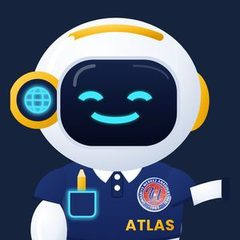
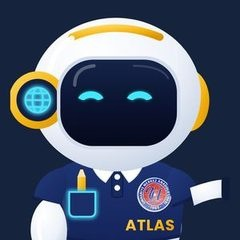
Telsiz: otobüs şeridi derli toplu (tek satır), bütün otobüslerde gelen/toplam, kendi otobüsü neon; mutlu Atlas'ta ağız yok
Claude-Session: https://claude.ai/code/session_01N4KgKYMP3BwnkxJRdcBawd

Changed region(s): [[0.3792, 0.4667, 0.5833, 0.525], [0.5833, 0.9333, 0.6417, 0.9625]]

diff --git a/telsiz.js b/telsiz.js
@@ -30,9 +30,11 @@
     '.tz-gz .tz-gm{min-width:0;flex:1}.tz-gz b{display:block;font-size:14.5px;white-space:nowrap;overflow:hidden;text-overflow:ellipsis}.tz-gz small{display:block;white-space:nowrap;overflow:hidden;text-overflow:ellipsis;color:#ffe14d;font-size:12px;margin-top:2px;text-shadow:0 0 8px rgba(255,225,77,.4)}',
     '.tz-canli{display:inline-flex;align-items:center;gap:6px;background:rgba(255,77,94,.14);border:1px solid rgba(255,77,94,.5);color:#ff8a95;font-size:11px;font-weight:800;letter-spacing:.06em;padding:4px 9px;border-radius:999px;flex:none}',
     '.tz-yokb{height:34px;border-radius:999px;border:1px solid rgba(94,224,138,.55);background:rgba(94,224,138,.12);color:#7ee8a2;display:inline-flex;align-items:center;gap:5px;padding:0 11px 0 9px;font:inherit;font-size:12.5px;font-weight:800;cursor:pointer;flex:none}',
-    '.tz-c.sec{border:1.5px solid #f2c14e!important;background:rgba(242,193,78,.16)!important;box-shadow:0 0 0 1px rgba(242,193,78,.35)}.tz-c.sec b{color:#f2c14e}',
-    '@media (max-width:760px){body.klavye-acik .tz-ekran .tz-gz,body.klavye-acik .tz-ekran .tz-serit,body.klavye-acik .tz-obs1{display:none!important}body.klavye-acik .tz-obbant{margin:0;border-radius:0;border-width:0 0 1px;padding:6px 10px}}.tz-obs1{flex-wrap:nowrap!important}.tz-obs1 b{white-space:nowrap}',
-    '.tz-obbant{margin:6px 0 2px;padding:8px 10px;border-radius:14px;background:rgba(242,193,78,.08);border:1px solid rgba(242,193,78,.45);display:flex;flex-direction:column;gap:6px;flex:none}.tz-obs1,.tz-obs2{display:flex;align-items:center;gap:6px;flex-wrap:wrap}.tz-obs1 b{display:flex;align-items:center;gap:6px;color:#f2c14e;font-size:14px;margin-right:auto}',
+    '.tz-c.ben{border-color:#22e8ff;background:rgba(34,232,255,.12);box-shadow:0 0 10px rgba(34,232,255,.45),inset 0 0 6px rgba(34,232,255,.15)}.tz-c.ben b{color:#7ff6ff}.tz-c.ben span{color:#dffcff;text-shadow:0 0 8px rgba(34,232,255,.6)}.tz-c.tam span{color:#7dffb0}',
+    '.tz-c.sec{border-width:2px!important;background:rgba(242,193,78,.24)!important;box-shadow:0 0 0 2px rgba(242,193,78,.25)}.tz-c.ben.sec{background:rgba(34,232,255,.22)!important;box-shadow:0 0 14px rgba(34,232,255,.6)}',
+    '@media (max-width:760px){body.klavye-acik .tz-ekran .tz-gz,body.klavye-acik .tz-ekran .tz-serit{display:none!important}body.klavye-acik .tz-obbant{margin:0;border-radius:0;border-width:0 0 1px}}.tz-obs1{flex-wrap:nowrap!important}.tz-obs1 b{white-space:nowrap}',
+    '.tz-obbant{margin:6px 0 2px;padding:5px 6px 5px 10px;border-radius:12px;background:rgba(242,193,78,.08);border:1px solid rgba(242,193,78,.45);flex:none}.tz-obs1{display:flex;align-items:center;gap:5px}.tz-obs1 b{display:flex;align-items:center;gap:5px;color:#f2c14e;font-size:13.5px}.tz-obb-bos{flex:1}',
+    '.tz-seg{display:flex;padding:2px;border-radius:9px;background:#0b1424;border:1px solid #2a4468}.tz-obbant .tz-seg button{height:26px;border:0;background:none;padding:0 9px;border-radius:7px;font-size:12px;color:#9db0cf}.tz-obbant .tz-seg button.secili{background:#f2c14e;color:#2a1d00}.tz-obbant button.ik{width:32px;padding:0;display:grid;place-items:center}',
     '.tz-obbant button{height:30px;padding:0 10px;border-radius:9px;border:1px solid #2a4468;background:#0b1424;color:#cfe0ff;font:inherit;font-size:12.5px;font-weight:700;cursor:pointer}.tz-obbant button.x{color:#ffb3b3;border-color:#5a2f3a}.tz-obs2 span{font-size:12px;color:#9db0cf}.tz-obbant button.secili{background:#f2c14e;border-color:#f2c14e;color:#2a1d00}',
     '.tz-c.kilit{opacity:.42;cursor:default;border-style:dashed}.tz-c.yok{border-style:solid;border-color:#2a4468;background:rgba(127,246,255,.04)}.tz-c.yok span{color:#9db0cf}',
     '.tz-psek{display:flex;gap:6px;margin:4px 0 12px}.tz-psek button{flex:1;height:40px;border-radius:12px;border:1px solid #24406a;background:#0b1424;color:#b9c9e2;font:inherit;font-size:14px;font-weight:800;cursor:pointer}.tz-psek button.secili{background:#22e8ff;border-color:#22e8ff;color:#06202a}',
@@ -173,8 +175,10 @@
       var y = alt.querySelector('textarea'); if (y) y.placeholder = phYaz();
       if (!o) { obEl.style.display = 'none'; obEl.innerHTML = ''; return; }
       obEl.style.display = '';
-      obEl.innerHTML = '<div class="tz-obs1"><b>' + SVG(IK.otobus, 15, 2.2) + 'Otobüs ' + o + '</b>' + (cfg.plan ? '<button type="button" data-obp="plan">Oturma planı</button>' : '') + '<button type="button" data-obp="say">Sayım</button><button type="button" class="x" data-obx aria-label="Bütün gezi">✕ Tümü</button></div>' +
-        '<div class="tz-obs2"><span>Yazdıkların</span><button type="button" data-obh="0" class="' + (!S.obHerkes ? 'secili' : '') + '">Yalnız Otobüs ' + o + '</button><button type="button" data-obh="1" class="' + (S.obHerkes ? 'secili' : '') + '">Herkese</button></div>';
+      var IKP = '<path d="M7 4h7a2 2 0 0 1 2 2v7H9a2 2 0 0 1-2-2z"/><path d="M5 11v4a2 2 0 0 0 2 2h11"/><path d="M8 17v3M16 17v3"/>', IKS = '<path d="M9 4h6v3H9z"/><path d="M8 5H6v15h12V5h-2"/><path d="M9 13l2 2 4-4"/>';
+      obEl.innerHTML = '<div class="tz-obs1"><b>' + SVG(IK.otobus, 14, 2.2) + 'Oto ' + o + '</b><span class="tz-seg"><button type="button" data-obh="0" class="' + (!S.obHerkes ? 'secili' : '') + '">Bu otobüse</button><button type="button" data-obh="1" class="' + (S.obHerkes ? 'secili' : '') + '">Herkese</button></span><i class="tz-obb-bos"></i>' +
+        (cfg.plan ? '<button type="button" class="ik" data-obp="plan" title="Oturma planı" aria-label="Oturma planı">' + SVG(IKP, 17, 2) + '</button>' : '') + '<button type="button" class="ik" data-obp="say" title="Sayım" aria-label="Sayım">' + SVG(IKS, 17, 2) + '</button><button type="button" class="ik x" data-obx title="Bütün gezi" aria-label="Bütün gezi">' + SVG('<path d="M6 6l12 12M18 6L6 18"/>', 15, 2.4) + '</button></div>';
+
       obEl.querySelectorAll('[data-obp]').forEach(function (b) { b.onclick = function () { otobusSayfa(o, b.dataset.obp); }; });
       obEl.querySelector('[data-obx]').onclick = function () { obSec(0); };
       obEl.querySelectorAll('[data-obh]').forEach(function (b) { b.onclick = function () { S.obHerkes = b.dataset.obh === '1'; obBantCiz(); }; }); }
@@ -202,16 +206,12 @@
     function toplanmalar() { var b = bugun(); return S.M.filter(function (m) { return m.konum && m.konum.saat && !m.gizli && (!m.konum.tarih || m.konum.tarih === b); }); }
     function seritCiz() {   // personel: altı otobüs tek şeritte — sayım (37/40, tam) ya da toplanma saati; dokununca otobüs sayfası
       var L = (cfg.gezi && cfg.gezi.otobusler && cfg.gezi.otobusler.length ? cfg.gezi.otobusler : [1, 2, 3, 4, 5, 6]), T = toplanmalar(), SY = S.sayimlar || [];
+      var ben = benimOto ? +benimOto() || 0 : 0;
       var izin = function (o) { var y = S.yetki; return R || !y || y.tum || +y.otobus === o; };   // K-845: Kurucu ve gezi sorumlusu bütün otobüsler, diğerleri kendi otobüsü
       var html = L.map(function (o) { if (!izin(o)) { var mk = null; for (var j = T.length - 1; j >= 0; j--) { var Lj = obListe(T[j].konum); if (!Lj || Lj.indexOf(o) >= 0) { mk = T[j]; break; } } return '<span class="tz-c kilit" title="Bu otobüs başka görevlide"><b>OTO ' + o + '</b><span>' + (mk && dkHesap(mk.konum) >= -30 ? esc(mk.konum.saat) : '—') + '</span></span>'; }
-        var m = null; for (var i = T.length - 1; i >= 0; i--) { var Lo = obListe(T[i].konum); if (!Lo || Lo.indexOf(o) >= 0) { m = T[i]; break; } }
-        if (m && dkHesap(m.konum) < -30) m = null;
         var sy = SY.filter(function (x) { return x.otobus === o; })[0], tazeTam = sy && sy.bitti && (Date.now() - new Date(sy.bitti)) < 90 * 60000;
-        if (sy && !sy.bitti) return '<button type="button" class="tz-c say" data-tzob="' + o + '"><b>OTO ' + o + '</b><span>' + sy.gelen + '/' + sy.toplam + '</span></button>';
-        if (tazeTam) return '<button type="button" class="tz-c tam" data-tzob="' + o + '"><b>OTO ' + o + '</b><span>✓ ' + sy.toplam + '</span></button>';
-        if (!m) return '<button type="button" class="tz-c yok" data-tzob="' + o + '"><b>OTO ' + o + '</b><span>—</span></button>';
-        var dk = dkHesap(m.konum);
-        return '<button type="button" class="tz-c' + (dk <= 10 && dk >= -5 ? ' yakin' : dk < -5 ? ' gecti' : '') + '" data-tzob="' + o + '"><b>OTO ' + o + '</b><span>' + esc(m.konum.saat) + '</span></button>'; }).join('');
+        var top = sy && sy.toplam != null ? sy.toplam : (S.obsay && S.obsay[o] != null ? S.obsay[o] : null), gel = sy && !sy.bitti ? sy.gelen : tazeTam ? sy.toplam : 0;   // K-849: hepsi gelen/toplam
+        return '<button type="button" class="tz-c' + (o === ben ? ' ben' : '') + (tazeTam ? ' tam' : '') + '" data-tzob="' + o + '"><b>OTO ' + o + '</b><span>' + (tazeTam ? '✓ ' : '') + gel + '/' + (top == null ? '–' : top) + '</span></button>'; }).join('');
       if (topEl.__h !== html) { topEl.__h = html; topEl.innerHTML = html; if (S.obSec) obBantCiz(); } topEl.style.display = '';
     }
     function otobusSayfa(o, sek0) {   // bir otobüs: toplanma + sayım (eksikler önde: foto, ad, koltuk · Geldi · Neredesin?)
@@ -404,7 +404,7 @@
       var degisti = r.bastan || L.length || S.surum !== r.surum; S.surum = r.surum;
       if (typeof r.acik === 'boolean' && r.acik !== S.acik) { S.acik = r.acik; altCiz(); degisti = true; }
       if (R) { if (r.ozet) cfg.gezi = Object.assign({}, cfg.gezi || {}, r.ozet); }
-      else if (P) { if (r.yetki) { S.yetki = r.yetki; planOnYukle(); } S.susL = r.sessiz || []; if (r.ozet) { cfg.gezi = Object.assign({}, cfg.gezi || {}, r.ozet); } if (r.sayimlar) S.sayimlar = r.sayimlar; }
+      else if (P) { if (r.yetki) { S.yetki = r.yetki; planOnYukle(); } if (r.obsay) S.obsay = r.obsay; S.susL = r.sessiz || []; if (r.ozet) { cfg.gezi = Object.assign({}, cfg.gezi || {}, r.ozet); } if (r.sayimlar) S.sayimlar = r.sayimlar; }
       else { S.sayim = r.sayim || null; sayCiz(); if (!!r.sessiz !== S.sessiz) { S.sessiz = !!r.sessiz; alt.dataset.d = ''; altCiz(); } }
       if (degisti) { gezCiz(); akisCiz(); fotoYukle(); }
       topCiz();

diff --git a/index.html b/index.html
@@ -8,7 +8,7 @@
 <link rel="manifest" href="manifest.webmanifest">
 <link rel="icon" href="simge-192.png">
 <link rel="apple-touch-icon" href="simge-192.png"><meta name="apple-mobile-web-app-capable" content="yes"><meta name="apple-mobile-web-app-title" content="Atlas">
-<link rel="stylesheet" href="stil.css?v=202611211024">
+<link rel="stylesheet" href="stil.css?v=202611211031">
 <script src="supabase.min.js?v=2.45.4"></script>
 <script>window.supabase || document.write('<script src="https://cdn.jsdelivr.net/npm/@supabase/supabase-js@2.45.4/dist/umd/supabase.min.js"><\/script>')</script>
 <style>/* K-755: yenile düğmesinde Atlas açılışı (öğrenci ekranındakiyle aynı) */
@@ -141,9 +141,9 @@ html.atlas-yenile #acilis, #acilis.tikli { display: flex; position: fixed; inset
 <link rel="stylesheet" href="senaryo/senaryo.css?v=202611160830">
 <script src="senaryo/senaryo.js?v=202611160950"></script>
 <script src="bildirim.js?v=202611191405"></script>
-<script src="sohbet-klavye.js?v=202611211024"></script>
-<script src="telsiz.js?v=202611211024"></script>
-<script src="uygulama.js?v=202611211024"></script>
+<script src="sohbet-klavye.js?v=202611211031"></script>
+<script src="telsiz.js?v=202611211031"></script>
+<script src="uygulama.js?v=202611211031"></script>
 <script>if ("serviceWorker" in navigator) navigator.serviceWorker.register("sw.js", { updateViaCache: "none" }).then(r => r.update()).catch(() => {});</script>
 </body>
 </html>

diff --git a/ogrenci/index.html b/ogrenci/index.html
@@ -753,8 +753,8 @@ html.oturumlu #acilis, #acilis.tikli { display: flex; position: fixed; inset: 0;
 <link rel="stylesheet" href="../senaryo/senaryo.css?v=202611160830">
 <script src="../senaryo/senaryo.js?v=202611160950"></script>
 <script src="../gezi-bilet.js?v=202611171320"></script>
-<script src="../sohbet-klavye.js?v=202611211024"></script>
-<script src="../telsiz.js?v=202611211024"></script>
-<script src="ogrenci.js?v=202611211024"></script>
+<script src="../sohbet-klavye.js?v=202611211031"></script>
+<script src="../telsiz.js?v=202611211031"></script>
+<script src="ogrenci.js?v=202611211031"></script>
 </body>
 </html>

diff --git a/rehber/index.html b/rehber/index.html
@@ -27,8 +27,8 @@
 <div class="rb-ust"><img src="../atlas-kafa.png" alt=""><div><b id="rbAd">Gezi Telsizi</b><small>Ümraniye Merkez Anadolu Lisesi · Rehber girişi</small></div></div>
 <div id="rbIc"><div class="rb-kart"><p>Bağlanıyor…</p></div></div>
 <script src="../supabase.min.js?v=2.45.4"></script>
-<script src="../sohbet-klavye.js?v=202611211024"></script>
-<script src="../telsiz.js?v=202611211024"></script>
+<script src="../sohbet-klavye.js?v=202611211031"></script>
+<script src="../telsiz.js?v=202611211031"></script>
 <script>
 (function () {
   'use strict';
